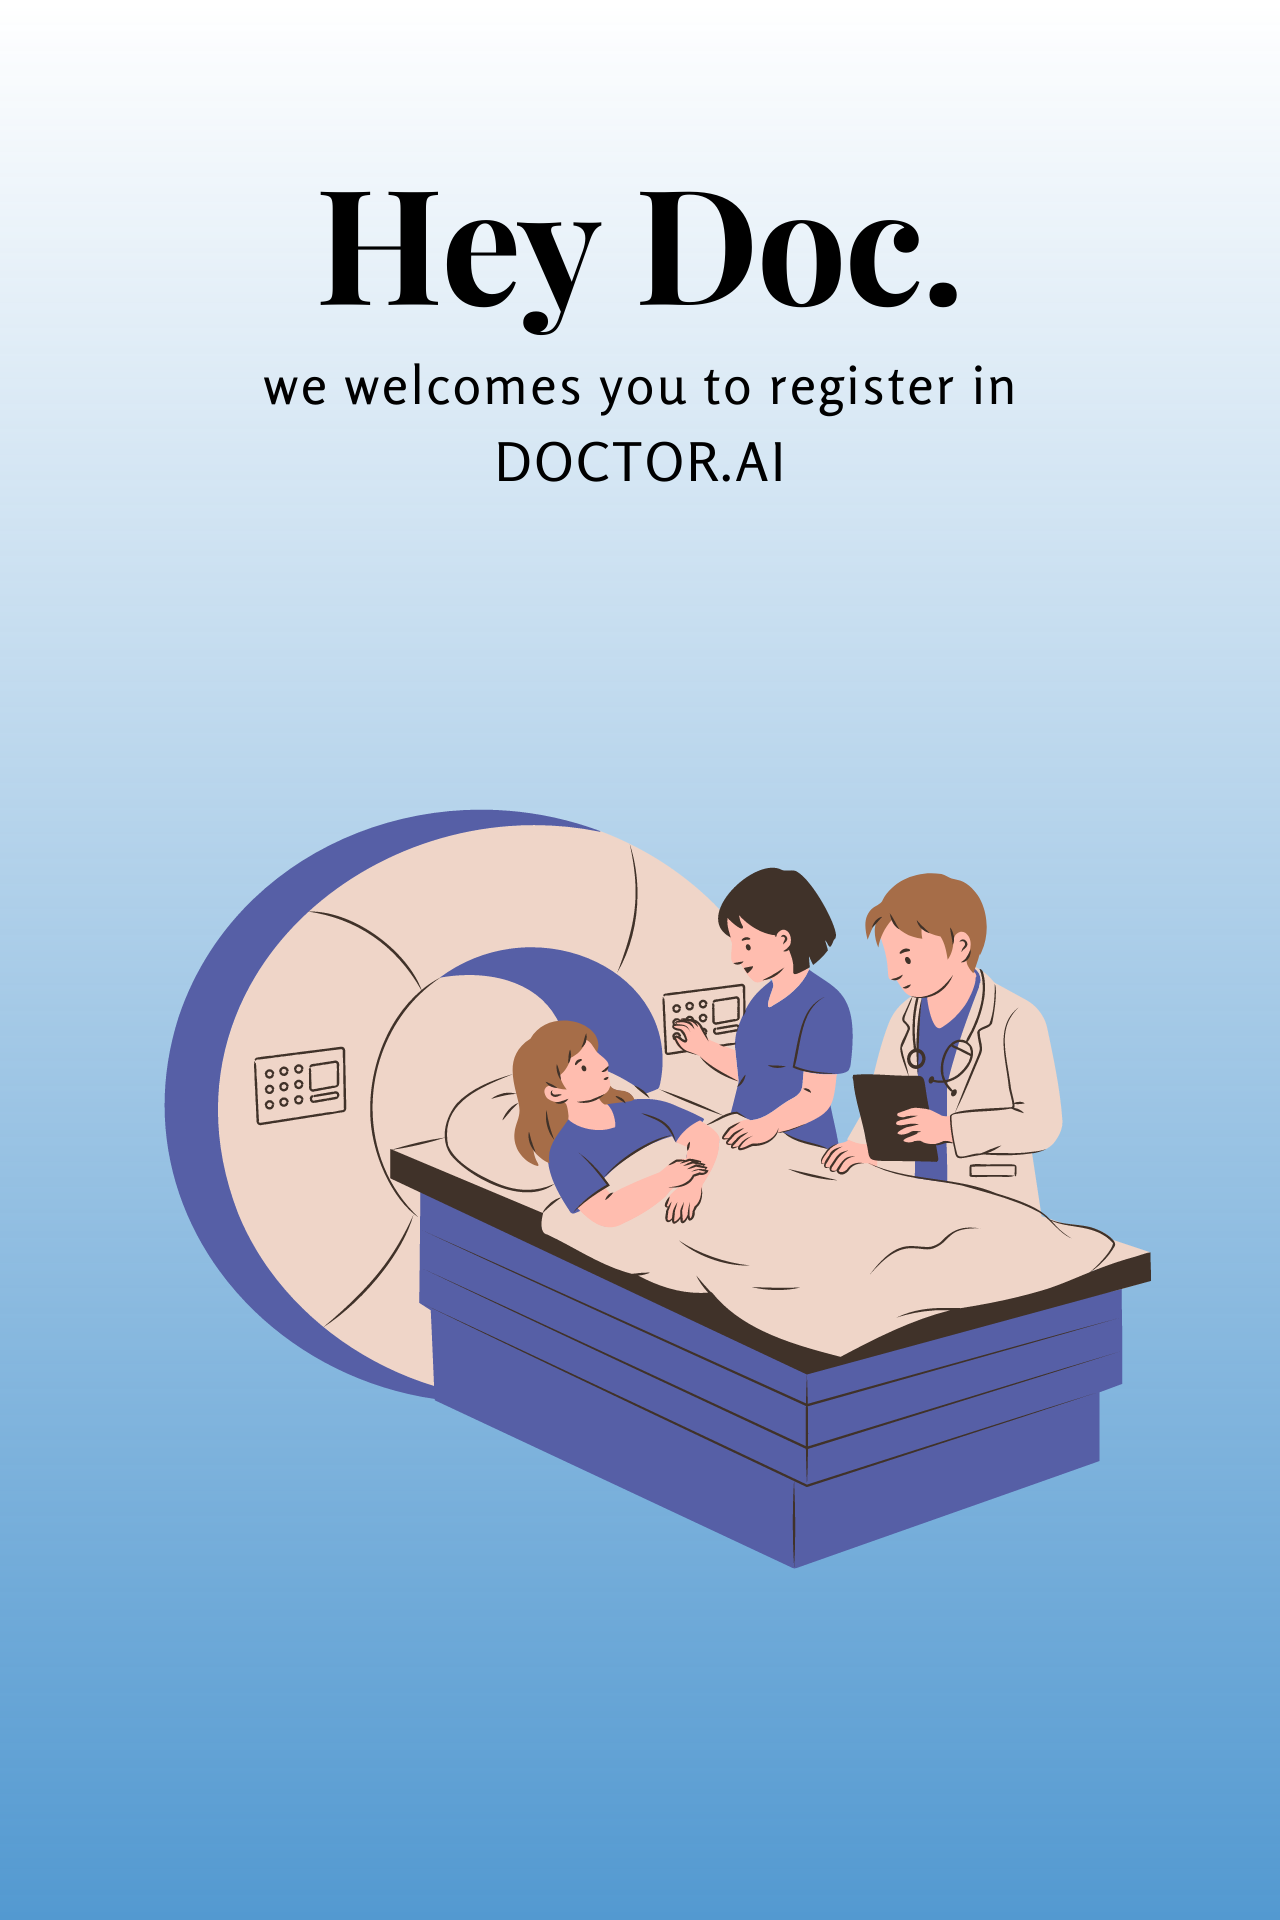
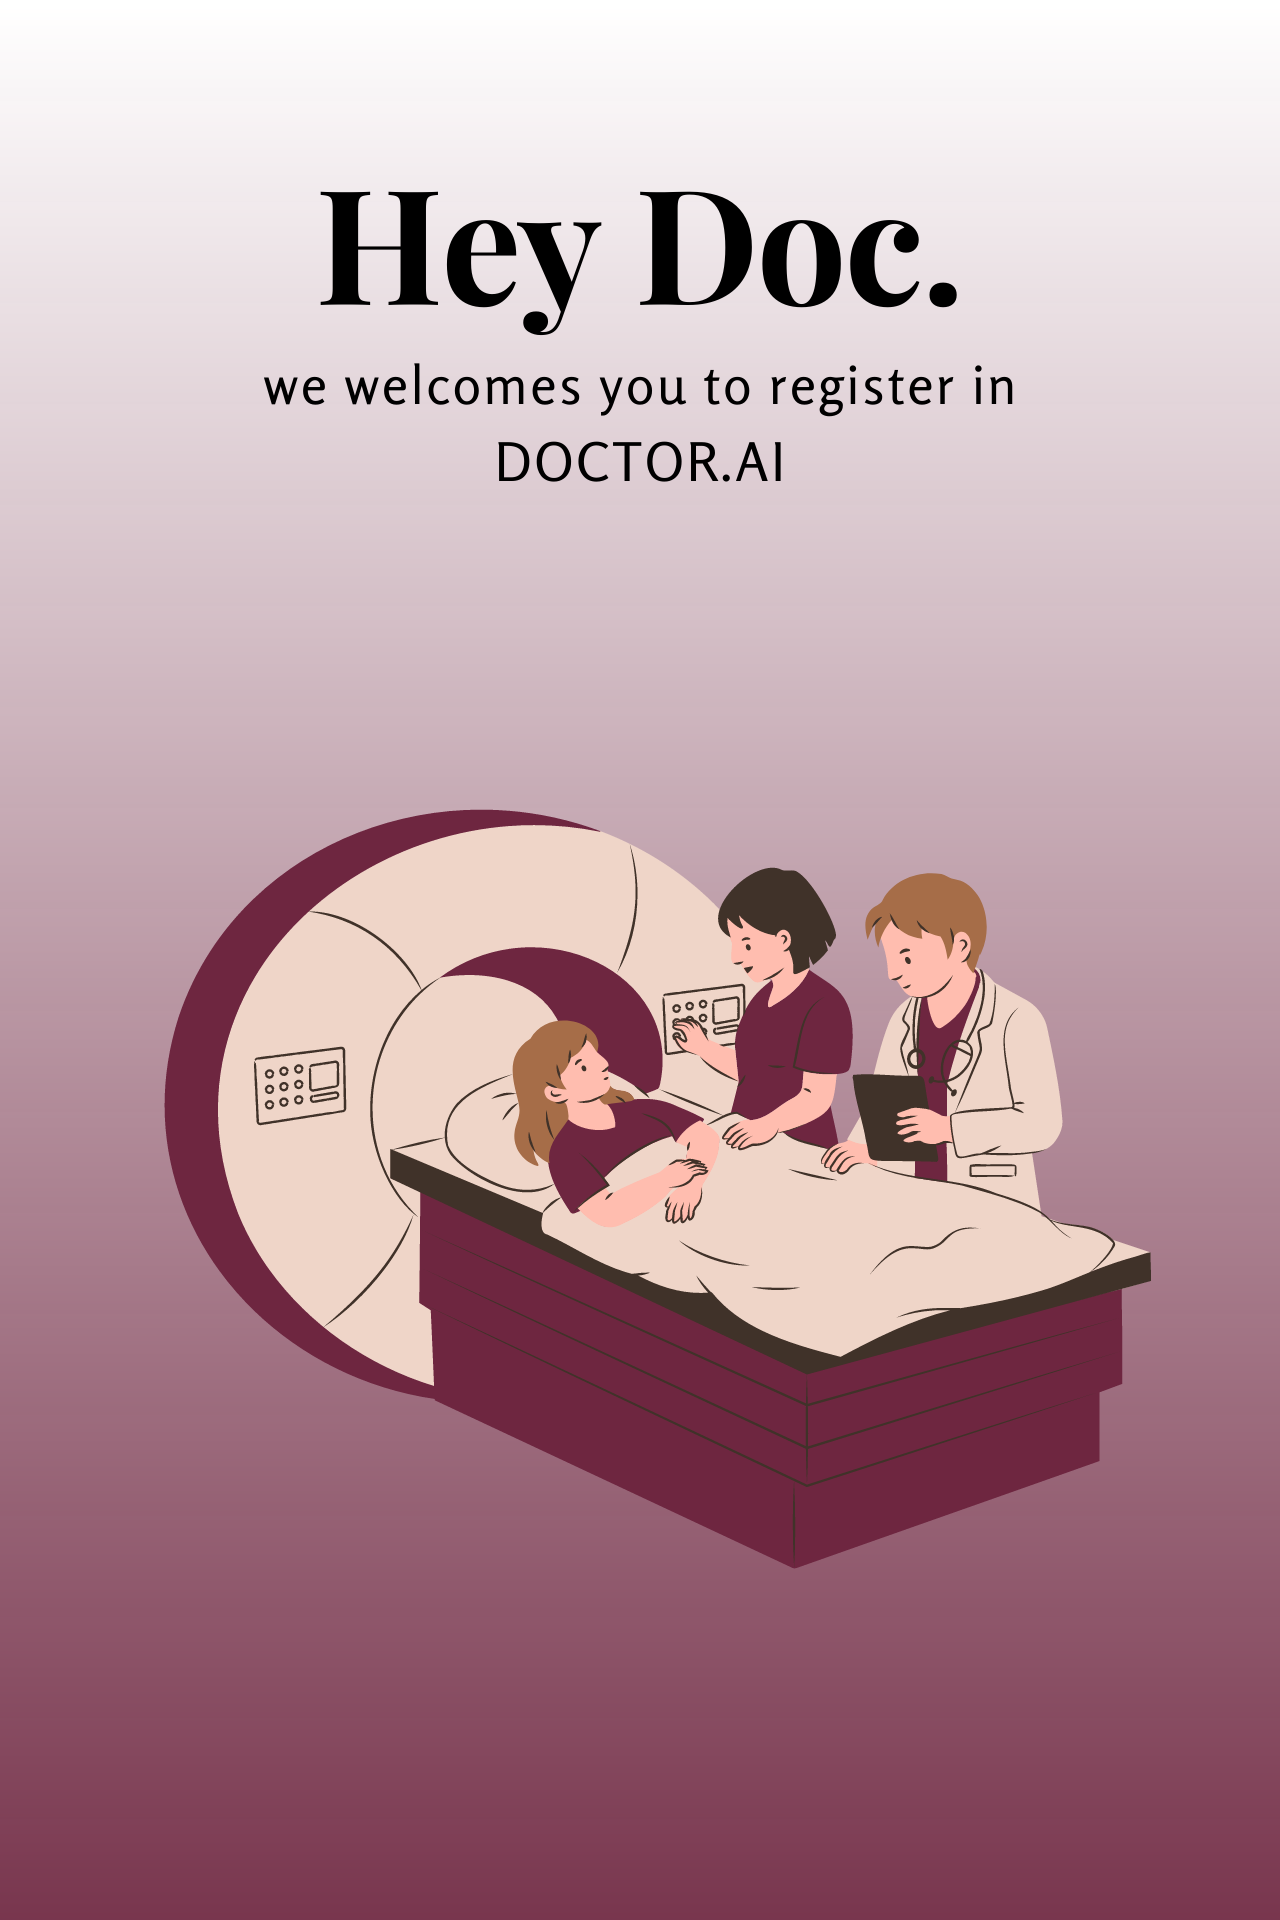
Some css improvements

diff --git a/Front-end/src/pages/Home/Home.jsx b/Front-end/src/pages/Home/Home.jsx
@@ -65,12 +65,11 @@ const Home = () => {
                     <span>F</span>
                     <span>A</span>
                     <span>C</span>
-                    <span>T</span>
-                    <span>I</span>
-                    <span>G</span>
-                    <span>R</span>
-                    <span>A</span>
-                    <span>M</span>
+                    <span>E</span>
+                    <span>B</span>
+                    <span>O</span>
+                    <span>O</span>
+                    <span>K</span>
                   </a>
                 </div>
                 <div className="home_main__container__left__social">
@@ -88,15 +87,12 @@ const Home = () => {
                 </div>
                 <div className="home_main__container__left__social">
                   <a>
-                    <span>I</span>
-                    <span>N</span>
-                    <span>S</span>
                     <span>T</span>
+                    <span>W</span>
                     <span>I</span>
-                    <span>G</span>
-                    <span>R</span>
-                    <span>A</span>
-                    <span>M</span>
+                    <span>T</span>
+                    <span>T</span>
+                    <span>E</span>
                   </a>
                 </div>
               </div>

diff --git a/Front-end/src/pages/ContactUs/Contact.jsx b/Front-end/src/pages/ContactUs/Contact.jsx
@@ -3,11 +3,12 @@ import "../ContactUs/Contact.css"
 
 const Contact = () => {
     return (
+        <div className="gradient-bg-welcome">
         <div class="signup-page">
             <div class="left-section">
                 <iframe src="https://www.google.com/maps/embed?pb=!1m18!1m12!1m3!1d3685.021548500945!2d88.39316062548166!3d22.54086553413242!2m3!1f0!2f0!3f0!3m2!1i1024!2i768!4f13.1!3m3!1m2!1s0x3a0276a208cb6793%3A0x676bbf22d04354e8!2sScience%20City%2CKolkata!5e0!3m2!1sen!2sin!4v1688450737670!5m2!1sen!2sin" width="600" height="450" style={{ marginLeft: '1.5rem' }} allowFullscreen="" loading="lazy" referrerpolicy="no-referrer-when-downgrade"></iframe>
             </div>
-            <div class="right-section">
+            <div class="right-section text_contact">
                 <h1>Contact Us</h1>
                 <form action="https://formspree.io/f/xeqbjbwq"
                     method="POST">
@@ -41,6 +42,7 @@ const Contact = () => {
                     </div>
                 </form>
             </div>
+        </div>
         </div>
     )
 }

diff --git a/Front-end/src/pages/Login/Login.css b/Front-end/src/pages/Login/Login.css
@@ -53,7 +53,7 @@
     text-align: center;
     margin-top: 1rem;
     font-family: "Belanosima", sans-serif;
-    color: #007bff;
+    color: #6e2640;
 }
 
 .form-input {
@@ -66,7 +66,7 @@
 }
 
 .submit-btn {
-    background-color: #007bff;
+    background-color: #6e2640;
     color: #fff;
     padding: 10px 20px;
     border: none;
@@ -76,10 +76,10 @@
 }
 
 .submit-btn {
-    background-color: #0a6ebd;
+    background-color: #6e2640;
     color: #fff;
     padding: 0.4rem 2rem;
-    border: 2px solid #0a6ebd;
+    border: 2px solid #6e2640;
     outline: none;
     border-radius: 20px;
     font-size: 1rem;
@@ -95,7 +95,7 @@
 }
 
 .already-account a {
-    color: #007bff;
+    color: #6e2640;
     text-decoration: none;
 }
 
@@ -112,7 +112,7 @@
 }
 
 .already-account a {
-    color: #007bff;
+    color: #6e2640;
     text-decoration: none;
 }
 

diff --git a/Front-end/src/components/Navbar/Navbar.css b/Front-end/src/components/Navbar/Navbar.css
@@ -13,7 +13,7 @@
 }
 
 .links > li > a:hover {
-  color: #0a6ebd;
+  color: #6e2640;
 }
 
 .links > li > a::after {
@@ -31,7 +31,7 @@
 
 .links > li > a:hover::after {
   width: 110%;
-  background-color: #0a6ebd;
+  background-color: #6e2640;
 }
 
 a {
@@ -97,10 +97,10 @@ a {
 }
 
 .action_btn {
-  background-color: #0a6ebd;
+  background-color: #6e2640;
   color: #fff;
   padding: 0.4rem 2rem;
-  border: 2px solid #0a6ebd;
+  border: 2px solid #6e2640;
   outline: none;
   border-radius: 20px;
   font-size: 1rem;
@@ -110,7 +110,7 @@ a {
 }
 
 .action_btn:hover {
-  color: #0a6ebd;
+  color: #6e2640;
   background-color: #fff;
 }
 

diff --git a/Front-end/src/components/Chat/Chat.css b/Front-end/src/components/Chat/Chat.css
@@ -47,7 +47,7 @@
   padding: 5px 13px;
   border-radius: 6px;
   color: #2e2e2e;
-  background-color: #4480d9;
+  background-color: #68253c;
   color: white;
 }
 .btnChat:hover {
@@ -86,7 +86,7 @@
 }
 
 .gpt div {
-  background-color: #4480d9;
+  background-color: #68253c;
   padding: 5px;
   border-radius: 8px;
   max-width: 75%;
@@ -110,7 +110,7 @@
   margin-right: 4px;
 }
 .me div {
-  background-color: #4480d9;
+  background-color: #68253c;
   padding: 5px;
   border-radius: 8px;
   max-width: 75%;

diff --git a/Front-end/src/pages/ContactUs/Contact.css b/Front-end/src/pages/ContactUs/Contact.css
@@ -3,3 +3,19 @@
     border-radius: 0.6rem;
     padding: 1rem;
 }
+
+.text_contact{
+    color: white
+}
+
+.right-section textarea{
+    width: 100%;
+    height: 100%;
+    border: none;
+    outline: none;
+    resize: none;
+    font-size: 1.2rem;
+    font-family: 'Roboto', sans-serif;
+    font-weight: 300;
+    color: #333;
+}

diff --git a/Front-end/src/Utils/APIRoutes.js b/Front-end/src/Utils/APIRoutes.js
@@ -1,5 +1,5 @@
 export const host = "http://localhost:3001";
-
+// export const host = "https://doctor-ai-node-backend.vercel.app";
 export const userLoginRoute = `${host}/login`;
 export const userSignupRoute = `${host}/signup`;
 export const chatAiRoute = `${host}/completion`;
